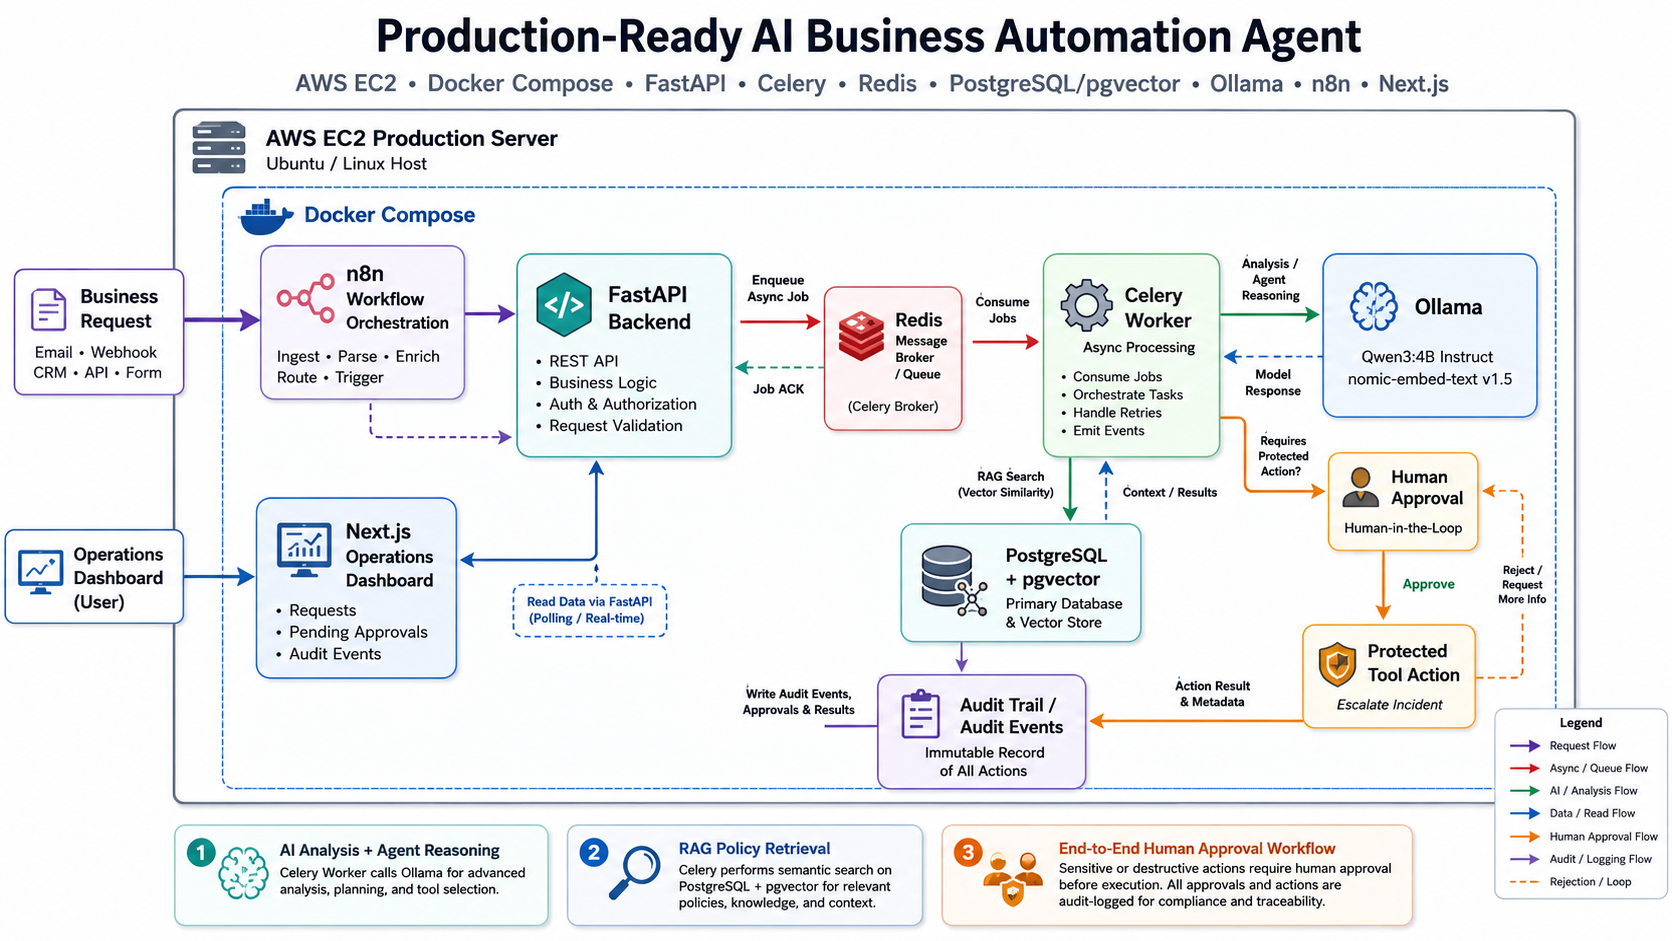
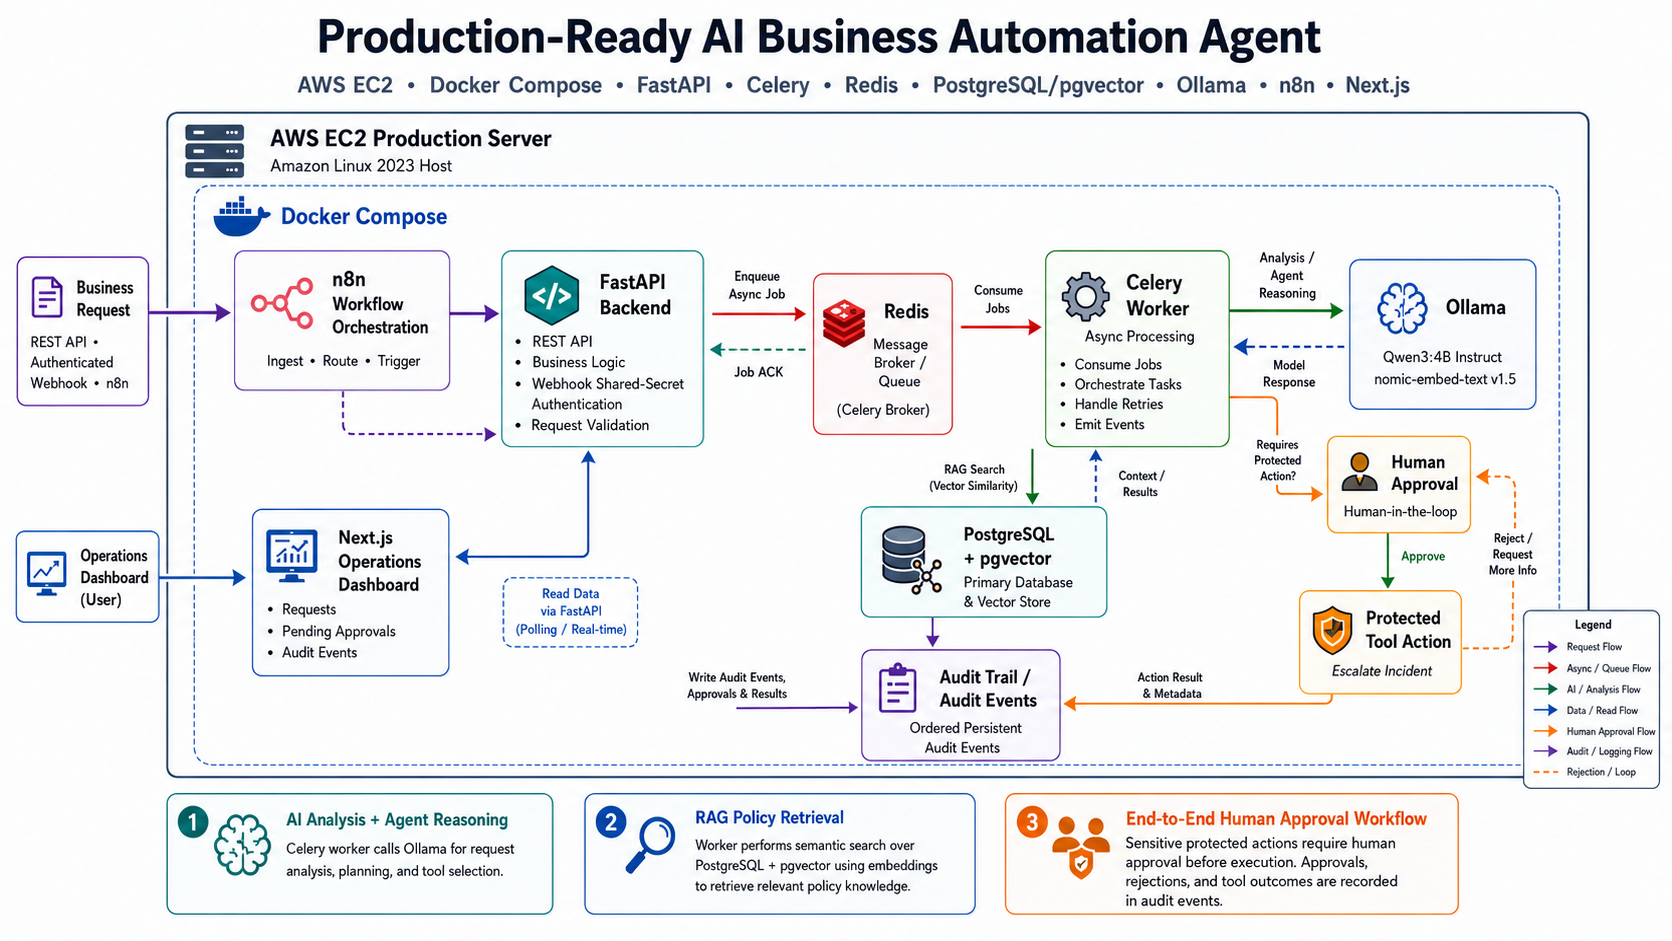
docs: finalize architecture presentation

Changed region(s): [[0.0, 0.0, 1.0, 0.9862]]

diff --git a/README.md b/README.md
@@ -88,56 +88,6 @@ tool_executed
 
 ![Production-Ready AI Business Automation Agent Architecture](docs/images/architecture.png)
 
-```text
-                     ┌─────────────────────┐
-                     │      Next.js UI     │
-                     │ Operations Dashboard│
-                     └──────────┬──────────┘
-                                │
-                                ▼
-                     ┌─────────────────────┐
-                     │      FastAPI        │
-                     │ REST / Webhooks     │
-                     └──────────┬──────────┘
-                                │
-             ┌──────────────────┼──────────────────┐
-             │                  │                  │
-             ▼                  ▼                  ▼
-   ┌─────────────────┐ ┌─────────────────┐ ┌─────────────────┐
-   │   PostgreSQL    │ │      Redis      │ │      n8n        │
-   │    pgvector     │ │ Celery Broker   │ │ Orchestration   │
-   └────────┬────────┘ └────────┬────────┘ └─────────────────┘
-            │                   │
-            │                   ▼
-            │        ┌─────────────────────┐
-            │        │   Celery Worker     │
-            │        └──────────┬──────────┘
-            │                   │
-            │                   ▼
-            │        ┌─────────────────────┐
-            │        │   Ollama / Qwen3    │
-            │        │ AI Analysis + Agent │
-            │        └──────────┬──────────┘
-            │                   │
-            │                   ▼
-            │        ┌─────────────────────┐
-            └───────►│ RAG / Tool Calling  │
-                     └──────────┬──────────┘
-                                │
-                                ▼
-                     ┌─────────────────────┐
-                     │ Human-in-the-Loop   │
-                     │ Approval / Reject   │
-                     └──────────┬──────────┘
-                                │
-                                ▼
-                     ┌─────────────────────┐
-                     │   Audit Trail       │
-                     └─────────────────────┘
-```
-
----
-
 ## Core Components
 
 ### FastAPI Backend
